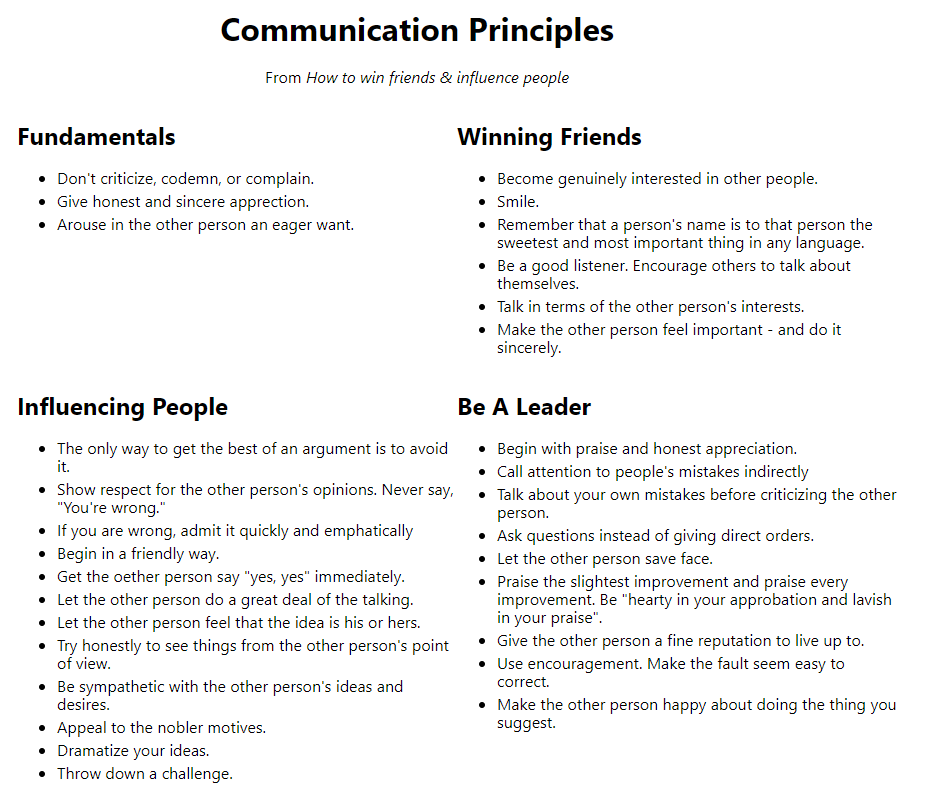
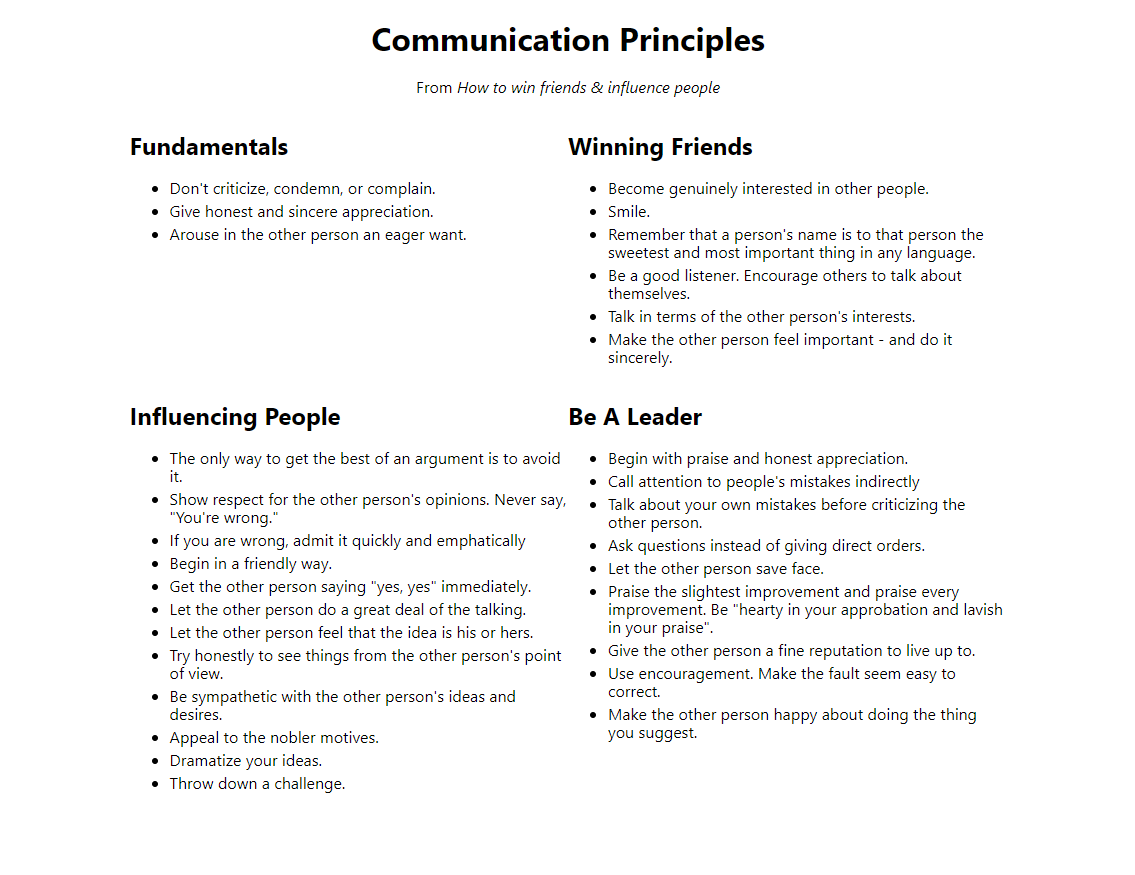
Update my horrible spelling and related screenshot

diff --git a/js/index.js b/js/index.js
@@ -1,7 +1,7 @@
 const principles = {
   Fundamentals: [
-    "Don't criticize, codemn, or complain.",
-    "Give honest and sincere apprection.",
+    "Don't criticize, condemn, or complain.",
+    "Give honest and sincere appreciation.",
     "Arouse in the other person an eager want."
   ],
   "Winning Friends": [
@@ -17,7 +17,7 @@ const principles = {
     "Show respect for the other person's opinions. Never say, \"You're wrong.\"",
     "If you are wrong, admit it quickly and emphatically",
     "Begin in a friendly way.",
-    "Get the oether person say \"yes, yes\" immediately.",
+    "Get the other person saying \"yes, yes\" immediately.",
     "Let the other person do a great deal of the talking.",
     "Let the other person feel that the idea is his or hers.",
     "Try honestly to see things from the other person's point of view.",
